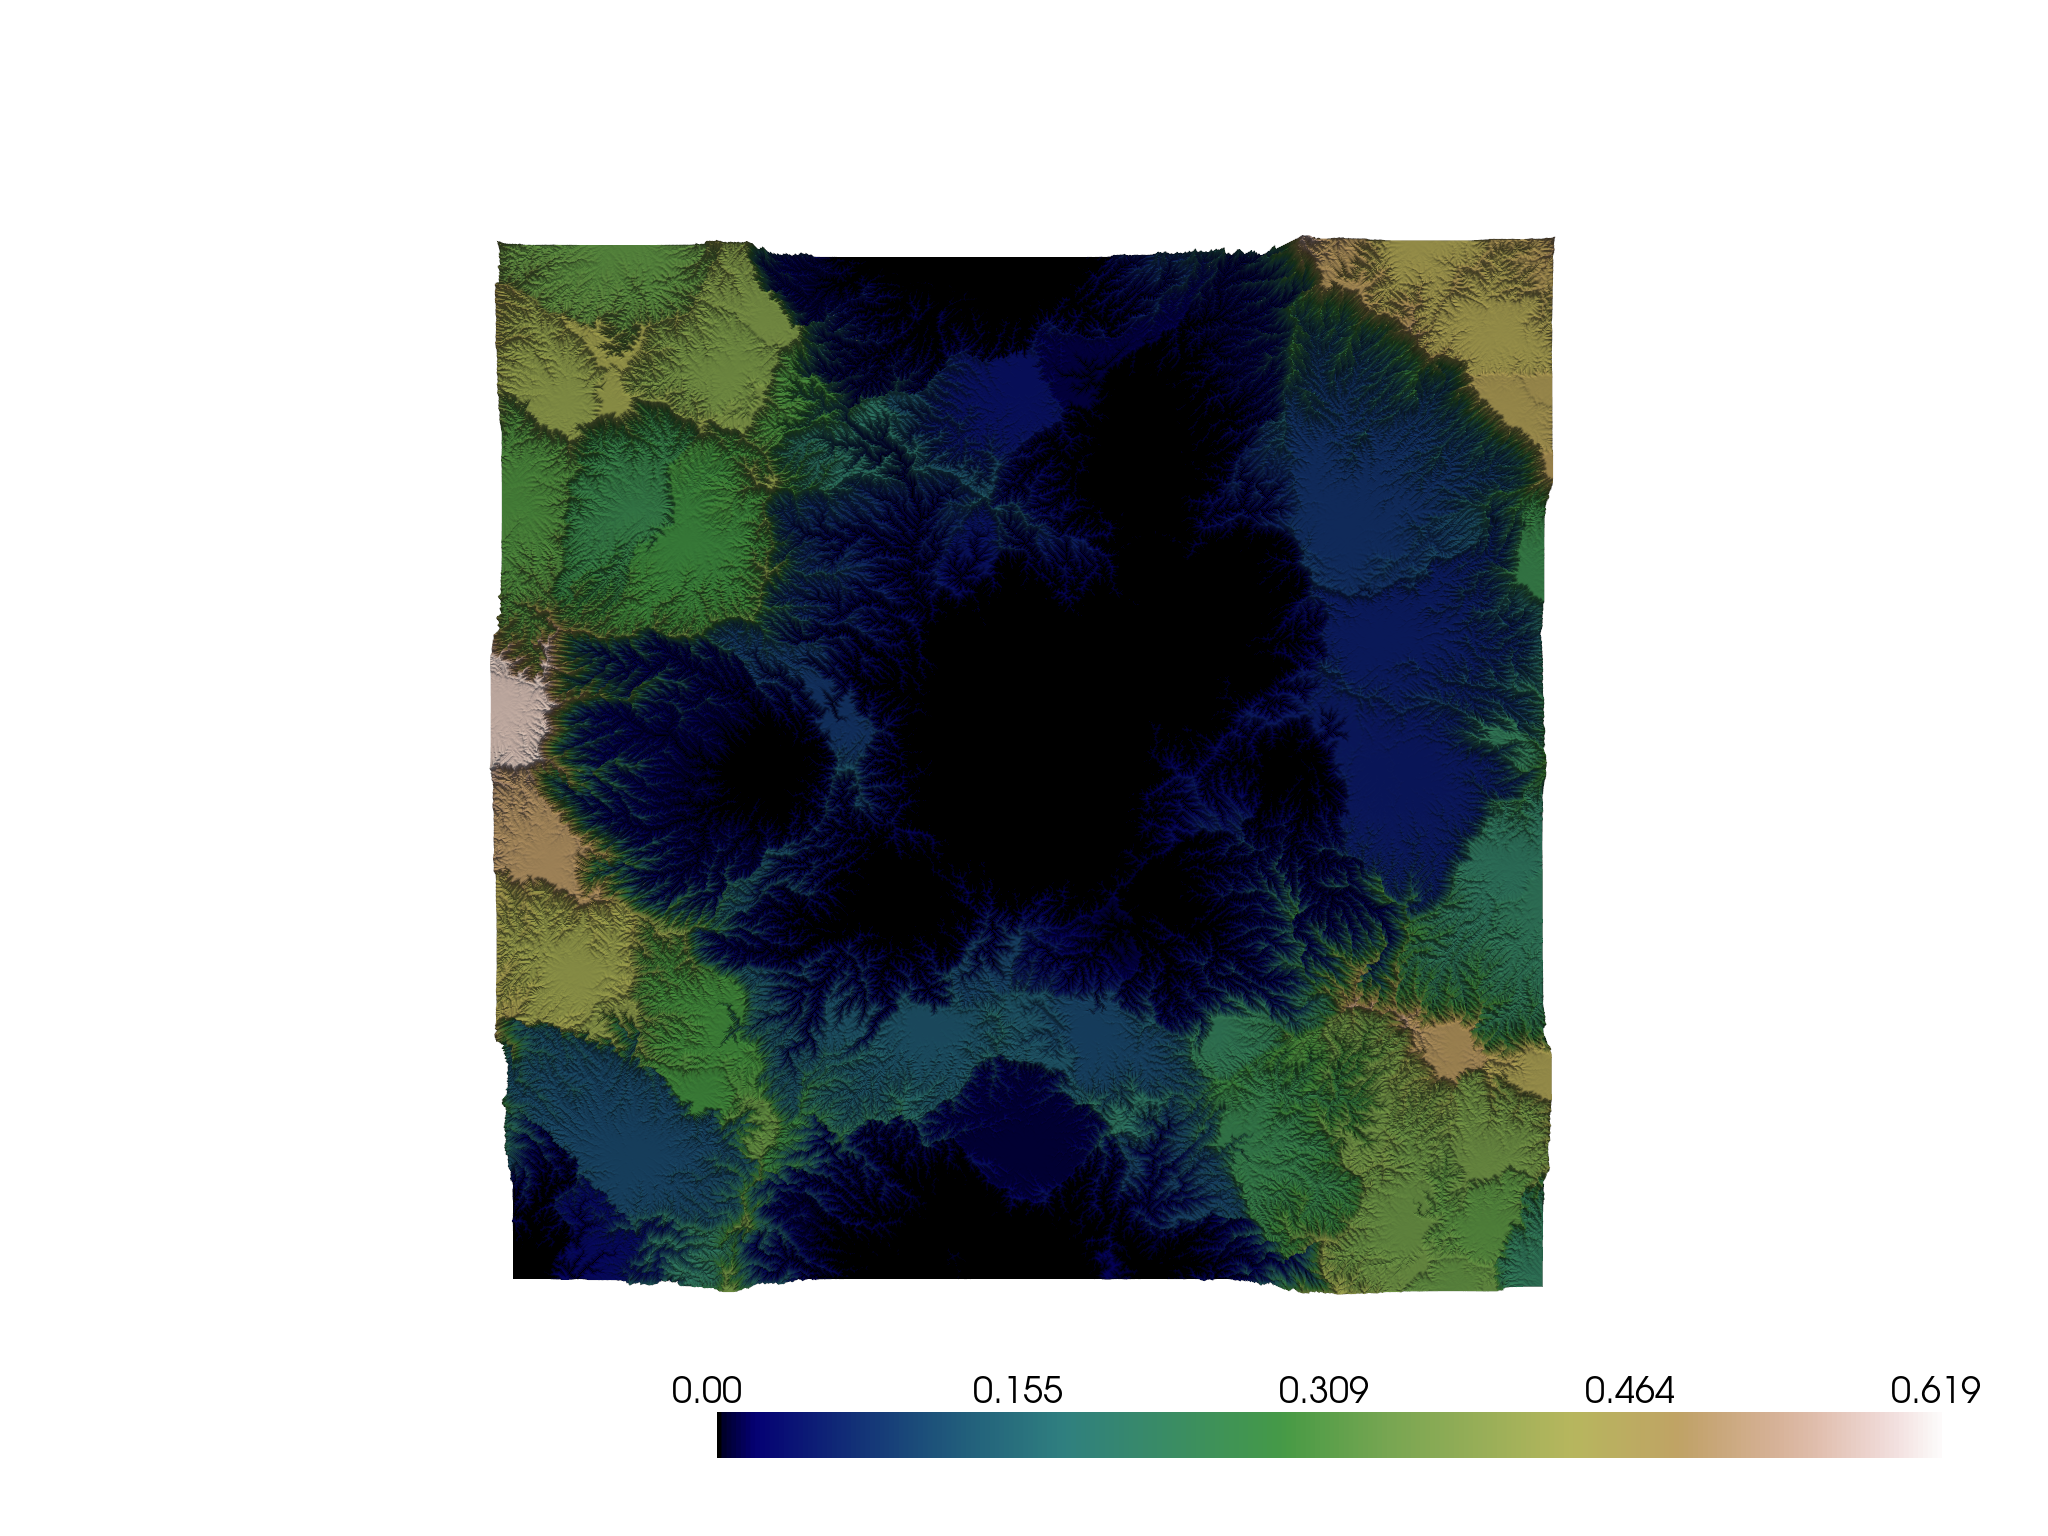
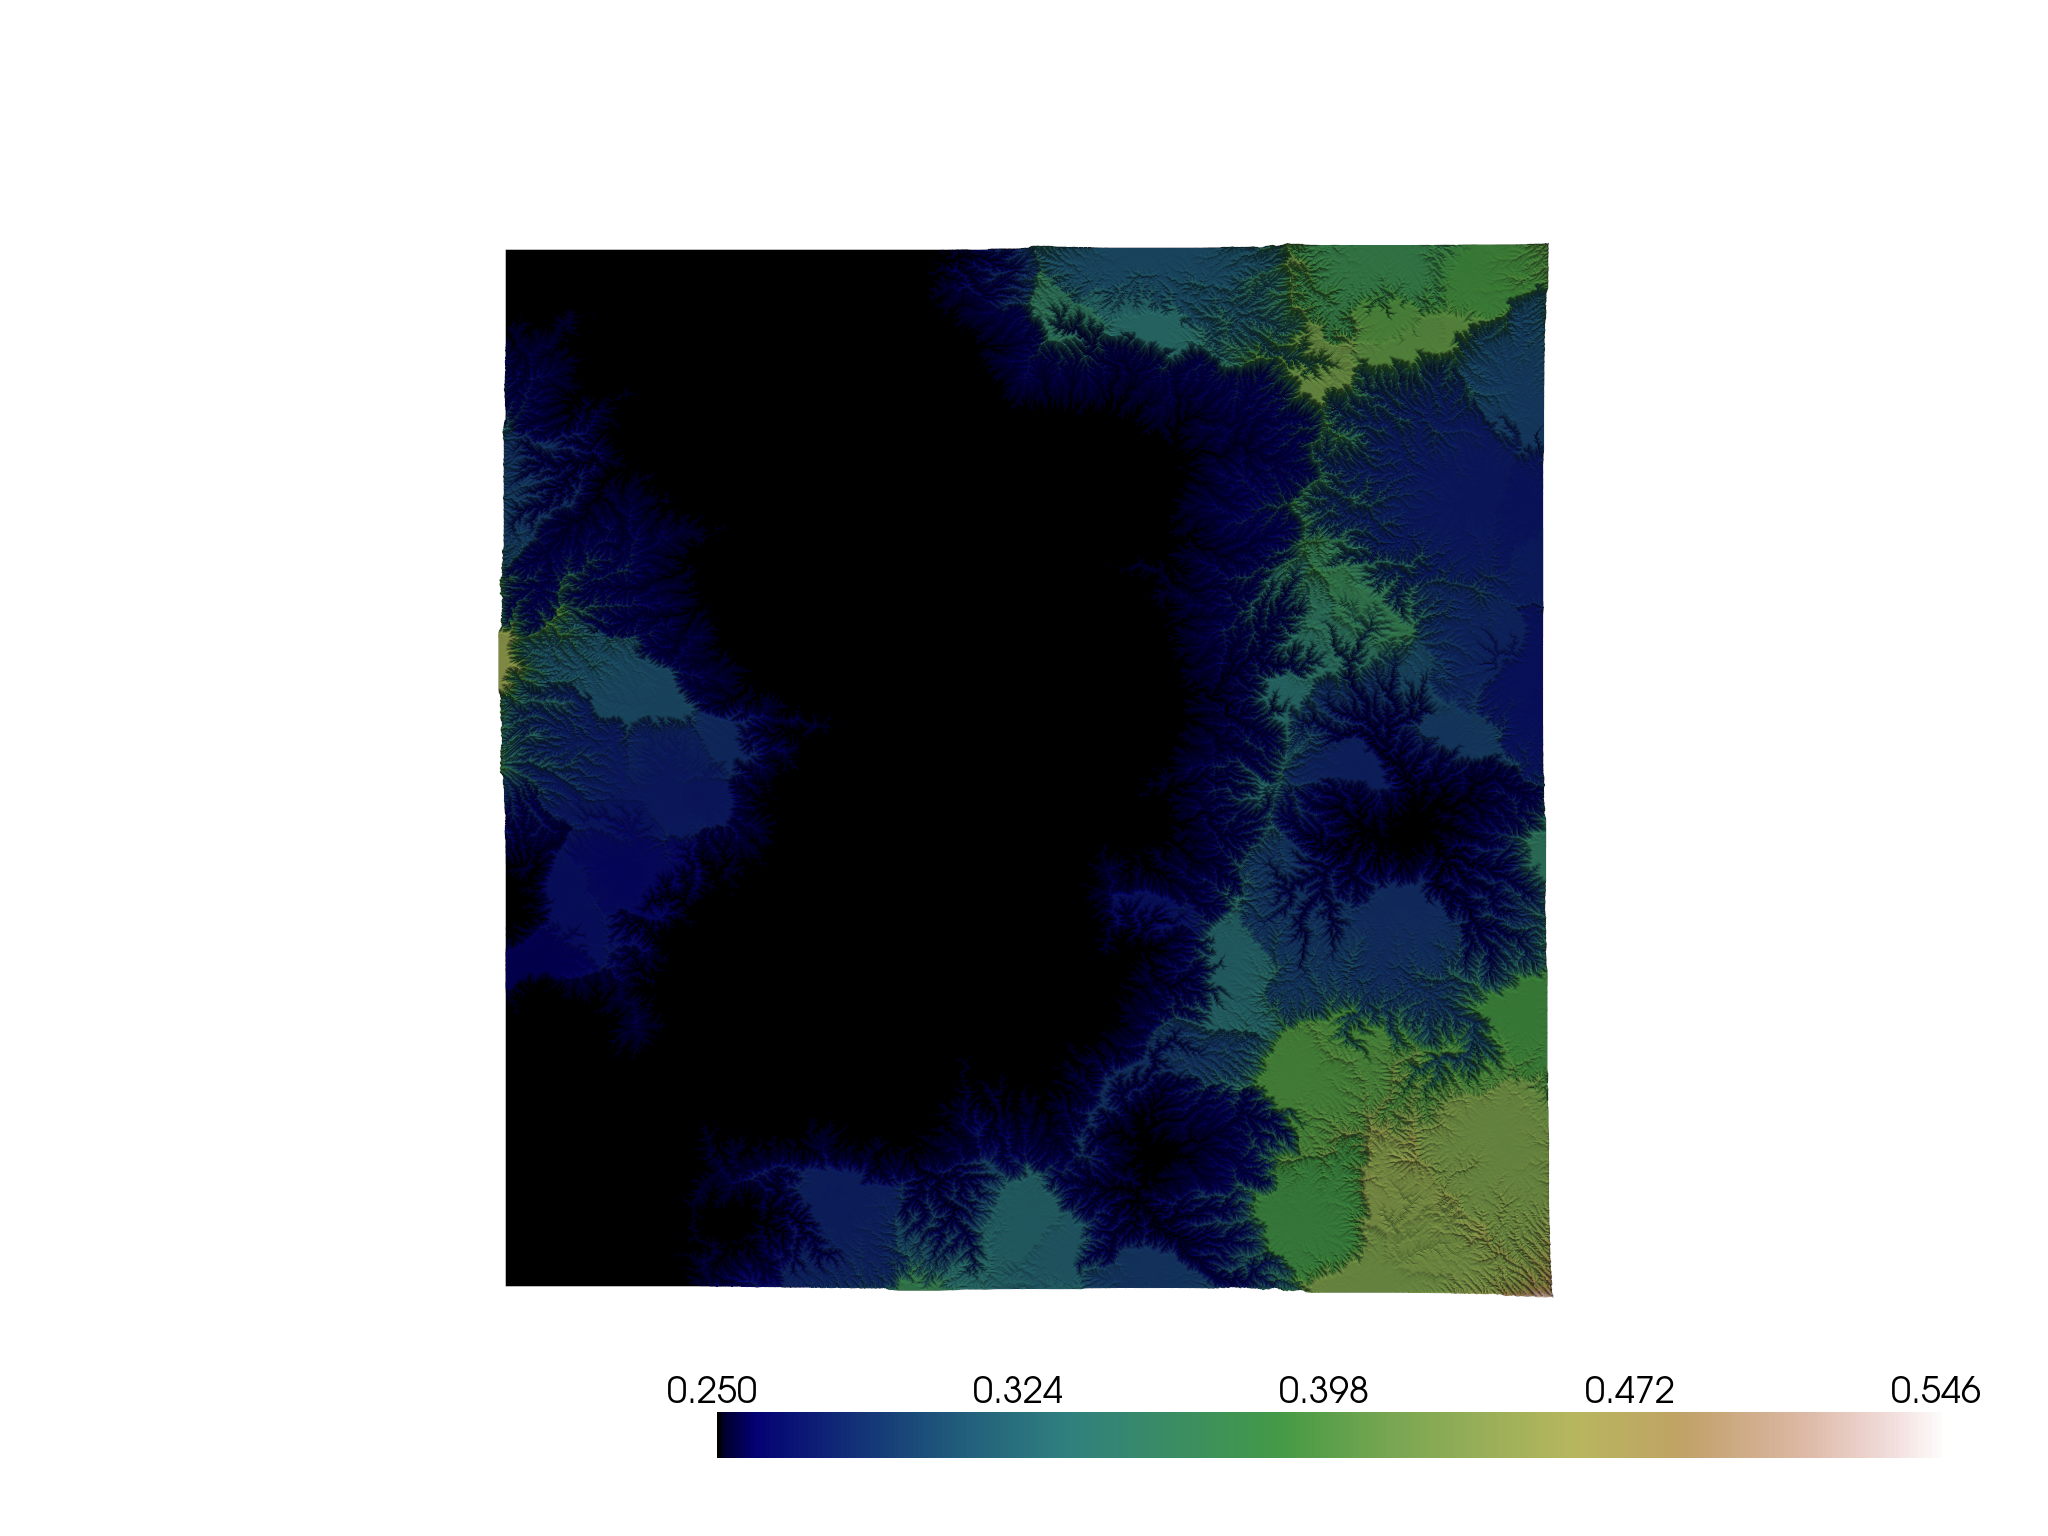
update case 1

diff --git a/terrain_gpu.py b/terrain_gpu.py
@@ -25,9 +25,9 @@ if TERRAIN_OPTION == 0:
 
 elif TERRAIN_OPTION == 1: 
 
-    u_init = DS.diamond_square(shape=(N,N), min_height=(-0.8 * u_scale), max_height=u_scale, roughness=0.5) 
-    u_host = np.clip(u_init, 0., u_scale)
-    h_host = np.clip(u_init + 0.2 * u_scale, 0., u_scale) / u_scale * h_scale
+    u_init = DS.diamond_square(shape=(N,N), min_height=0., max_height=u_scale, roughness=0.5) 
+    u_host = np.clip(u_init, u_scale * 0.5, u_scale) - 0.5 * u_scale
+    h_host = (np.clip(u_init, u_scale * 0.5, u_scale) / u_scale - 0.25) * h_scale
 
 elif TERRAIN_OPTION == 2:
 

diff --git a/terrain_cpu.py b/terrain_cpu.py
@@ -30,9 +30,9 @@ if TERRAIN_OPTION == 0:
 
 elif TERRAIN_OPTION == 1: 
 
-    u_init = DS.diamond_square(shape=(N,N), min_height=(-0.8 * u_scale), max_height=u_scale, roughness=0.5) 
-    u = np.clip(u_init, 0., u_scale)
-    h = np.clip(u_init + 0.2 * u_scale, 0., u_scale) / u_scale * h_scale
+    u_init = DS.diamond_square(shape=(N,N), min_height=0., max_height=u_scale, roughness=0.5) 
+    u = np.clip(u_init, u_scale * 0.5, u_scale) - 0.5 * u_scale
+    h = (np.clip(u_init, u_scale * 0.5, u_scale) / u_scale - 0.25) * h_scale
 
 elif TERRAIN_OPTION == 2:
 
